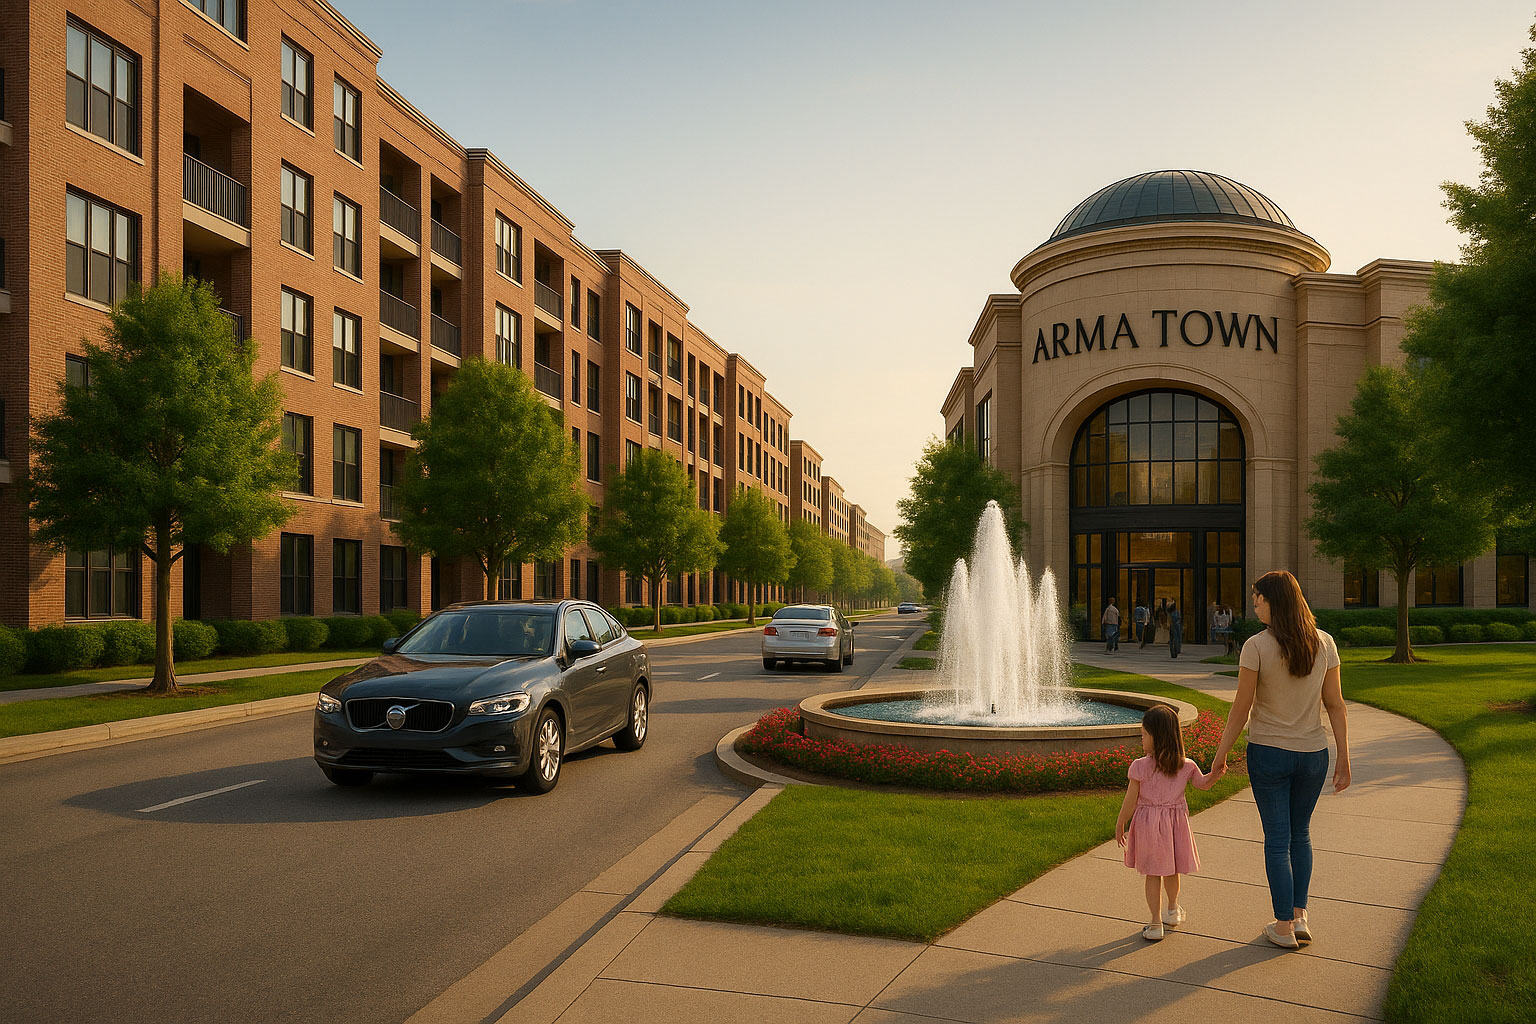
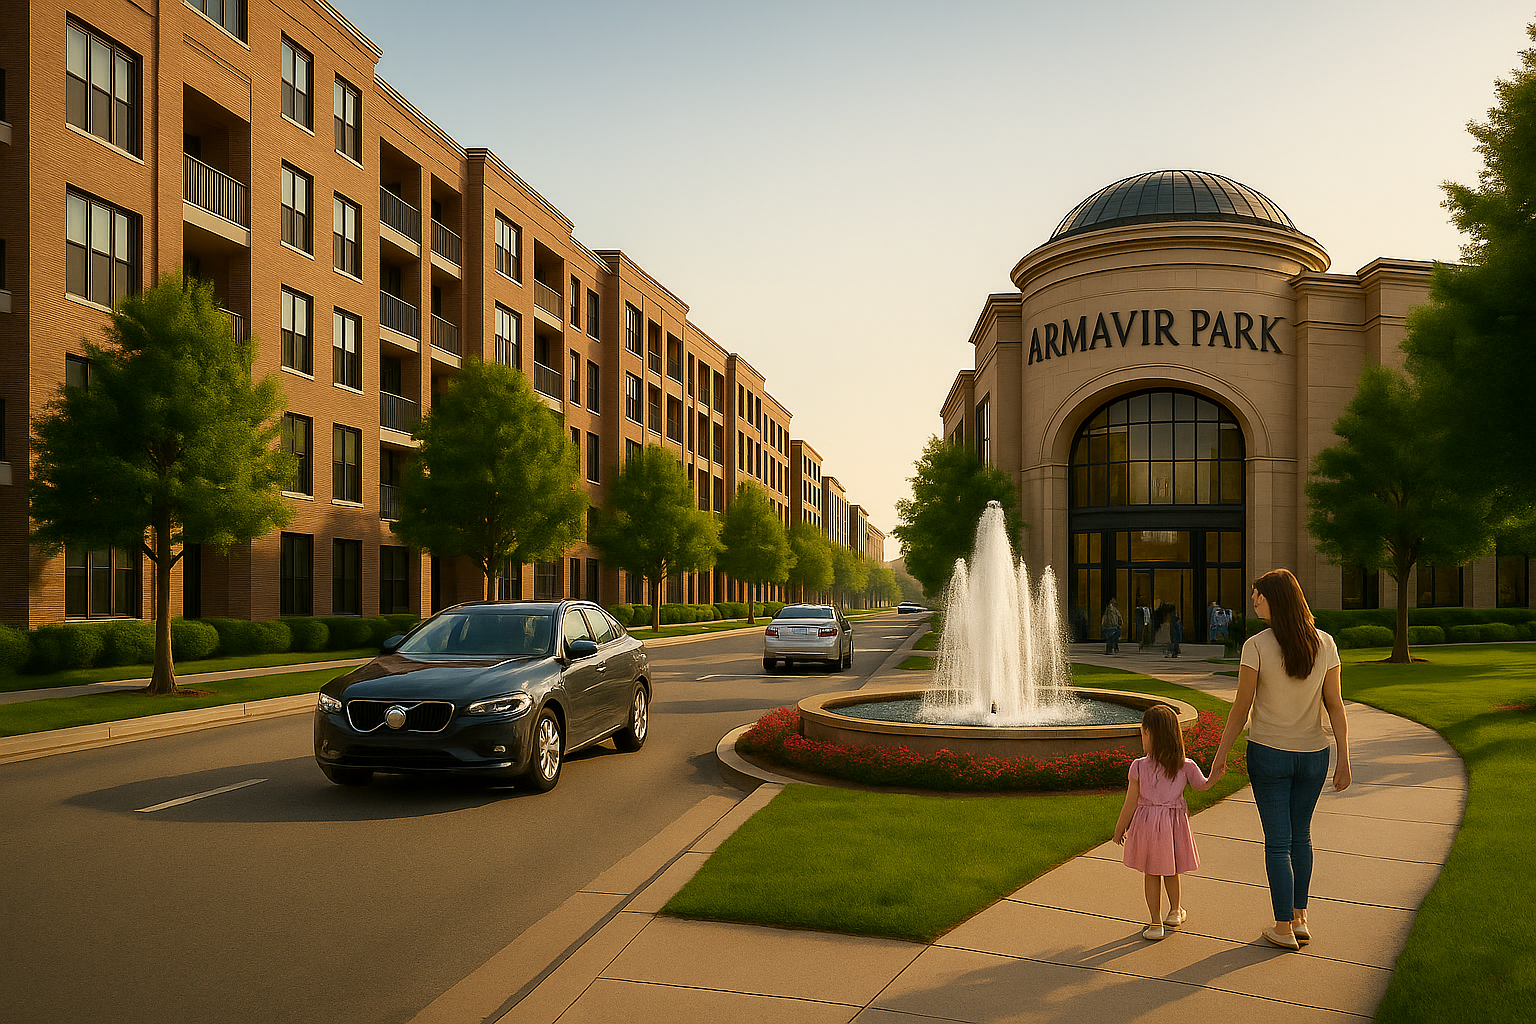
Rename Armavir Town to Armavir Park

diff --git a/my-app/src/i18n.js b/my-app/src/i18n.js
@@ -12,9 +12,9 @@ const translations = {
       aboutTitle: "Ընկերության մասին:",
       aboutText:
         "AGE Invest-ը ժամանակակից շինարարական ընկերություն է, որը մասնագիտացած է բնակելի և կոմերցիոն նախագծերի մշակման և կառուցման գործում Հայաստանում։ Մեր նպատակն է ստեղծել նորարարական, հարմարավետ և որակյալ միջավայր՝ նպաստելով քաղաքաշինության կայուն զարգացմանը։",
-      projectsTitle: '"Arma Town" բնակելի թաղամաս Արմավիրում։',
-      projectsAbout: `"Arma Town" նոր սերնդի խոշորածավալ շինարարական նախագիծ է, որն իրականացվում է զրոյից և ներառում է ամբողջովին ինքնավար ենթակառուցվածք։ Նախագծի շրջանակում նախատեսվում է բնակելի և առևտրային շինությունների կառուցում, հասարակական տարածքների ձևավորում, ինչպես նաև անհրաժեշտ բոլոր ճարտարագիտական և սոցիալական ենթակառուցվածքների ստեղծում։ Ներդրումների ծավալով և նախատեսվող տարածքով նախագիծը դառնում է տարածաշրջանի խոշորագույններից մեկը։ "Arma Town" կդառնա նոր գրավչության կենտրոն, կստեղծի հարյուրավոր աշխատատեղեր և կխթանի տնտեսության զարգացումն ու կյանքի որակի բարձրացումը։`,
-      projectsSchemes: '"Arma Town" տների նախագծեր:',
+  projectsTitle: '"Արմավիր Պարկ" բնակելի թաղամաս Արմավիրում։',
+  projectsAbout: `"Արմավիր Պարկ" նոր սերնդի խոշորածավալ շինարարական նախագիծ է, որն իրականացվում է զրոյից և ներառում է ամբողջովին ինքնավար ենթակառուցվածք։ Նախագծի շրջանակում նախատեսվում է բնակելի և առևտրային շինությունների կառուցում, հասարակական տարածքների ձևավորում, ինչպես նաև անհրաժեշտ բոլոր ճարտարագիտական և սոցիալական ենթակառուցվածքների ստեղծում։ Ներդրումների ծավալով և նախատեսվող տարածքով նախագիծը դառնում է տարածաշրջանի խոշորագույններից մեկը։ "Արմավիր Պարկ" կդառնա նոր գրավչության կենտրոն, կստեղծի հարյուրավոր աշխատատեղեր և կխթանի տնտեսության զարգացումն ու կյանքի որակի բարձրացումը։`,
+  projectsSchemes: '"Արմավիր Պարկ" տների նախագծեր:',
       projectsAddress: "ԼԵՐՄՈՆՏՈՎԻ ՓՈՂՈՑ, 105/4",
       projectsDocument: "ՇԹ/341/12917-25",
       contactAddress: "Արմավիր, Հայաստան\nՀանրապետություն 28",
@@ -53,9 +53,9 @@ const translations = {
       aboutTitle: "О компании.",
       aboutText:
         "AGE Invest — современная строительная компания, специализирующаяся на разработке и строительстве жилых и коммерческих проектов в Армении. Наша цель — создать инновационную, комфортную и качественную среду, способствуя устойчивому развитию городской инфраструктуры.",
-      projectsTitle: 'Жилой район "Arma Town" в Армавире.',
-      projectsAbout: `"Arma Town" — масштабный строительный проект нового поколения, реализуемый с нуля и включающий полностью автономную инфраструктуру. В рамках проекта предусмотрено строительство жилых и коммерческих зданий, обустройство общественных пространств, а также создание всей необходимой инженерной и социальной инфраструктуры. По объёму инвестиций и предполагаемой площади проект становится одним из крупнейших в регионе. "Arma Town" станет новым центром притяжения, создаст сотни рабочих мест и даст импульс развитию экономики и повышению качества жизни.`,
-      projectsSchemes: 'Проекты домов "Arma Town".',
+  projectsTitle: 'Жилой район "Армавир Парк" в Армавире.',
+  projectsAbout: `"Армавир Парк" — масштабный строительный проект нового поколения, реализуемый с нуля и включающий полностью автономную инфраструктуру. В рамках проекта предусмотрено строительство жилых и коммерческих зданий, обустройство общественных пространств, а также создание всей необходимой инженерной и социальной инфраструктуры. По объёму инвестиций и предполагаемой площади проект становится одним из крупнейших в регионе. "Армавир Парк" станет новым центром притяжения, создаст сотни рабочих мест и даст импульс развитию экономики и повышению качества жизни.`,
+  projectsSchemes: 'Проекты домов "Армавир Парк".',
       projectsAddress: "УЛИЦА ЛЕРМОНТОВА, 105/4",
       projectsDocument: "ՇԹ/341/12917-25",
       contactAddress: "Армавир, Армения\nАнрапетутян 28",
@@ -94,10 +94,10 @@ const translations = {
       aboutTitle: "About the company.",
       aboutText:
         "AGE Invest is a modern construction company specializing in the development and construction of residential and commercial projects in Armenia. Our goal is to create innovative, comfortable, and high-quality environments that contribute to the sustainable growth of urban infrastructure.",
-      projectsTitle: 'The residential area "Arma Town" in Armavir.',
+  projectsTitle: 'The residential area "Armavir Park" in Armavir.',
       projectsAbout:
-        '“Arma Town” is a large-scale next-generation construction project, developed from the ground up and featuring a fully autonomous infrastructure. The project includes the construction of residential and commercial buildings, the development of public spaces, as well as the creation of all necessary engineering and social infrastructure. With its investment volume and projected area, the project ranks among the largest in the region. “Arma Town” will become a new center of attraction, generate hundreds of jobs, and contribute to economic growth and improved quality of life.',
-      projectsSchemes: 'House projects of "Arma Town".',
+  '“Armavir Park” is a large-scale next-generation construction project, developed from the ground up and featuring a fully autonomous infrastructure. The project includes the construction of residential and commercial buildings, the development of public spaces, as well as the creation of all necessary engineering and social infrastructure. With its investment volume and projected area, the project ranks among the largest in the region. “Armavir Park” will become a new center of attraction, generate hundreds of jobs, and contribute to economic growth and improved quality of life.',
+  projectsSchemes: 'House projects of "Armavir Park".',
       projectsAddress: "105/4 Lermontov Street",
       projectsDocument: "ՇԹ/341/12917-25",
       contactAddress: "Armavir, Armenia\nHanrapetutyan 28",
